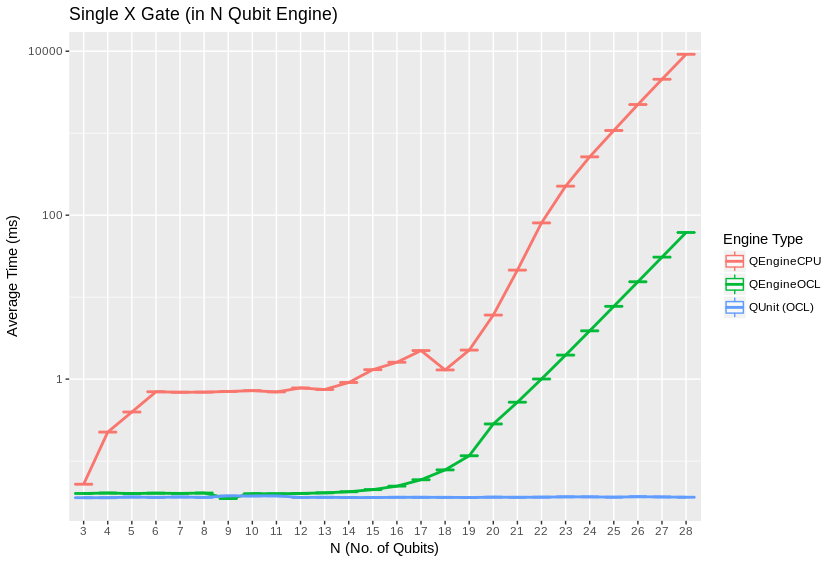
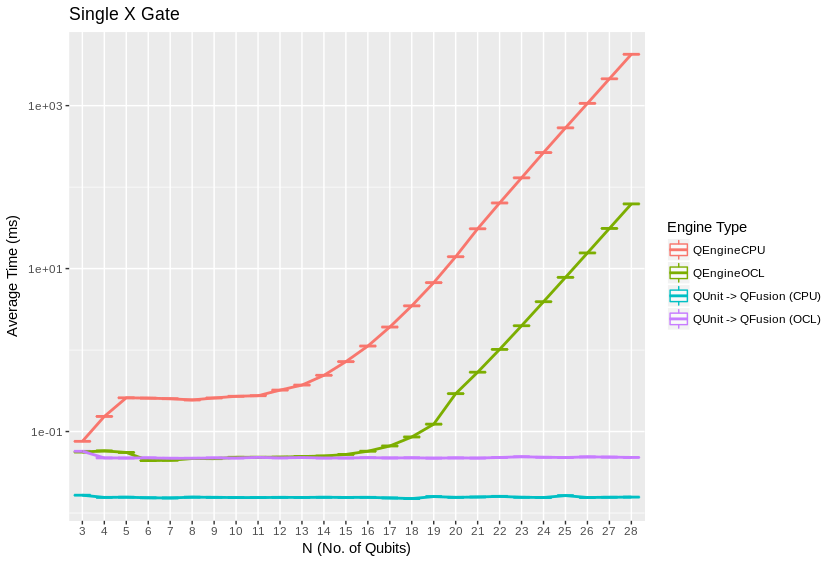
Release 3 candidate

diff --git a/docs/performance.rst b/docs/performance.rst
@@ -39,6 +39,14 @@ of projects.  As such, it is an ideal test-bed for establishing a set of
 benchmarks useful for comparing performance between various quantum
 simulators.
 
+Qrack provides a "QEngineCPU" and a "QEngineOCL" that represent non-OpenCL and 
+OpenCL base implementations, which could also be the most efficient types to 
+use directly in the limit of maximal entanglement. For general use cases, 
+the "QUnit" layer provides explicit Schmidt decomposition on top of another 
+engine type, (per [Pednault2017]_,) and "QFusion" provides a "gate fusion" 
+layer. A "QEngine" type is always the base layer, and QUnit and QFusion types 
+may be layered over these, and over each other.
+
 Future publications will compare the performance of Qrack against other
 publicly available simulators, as rigorous implementations can be implemented.
 
@@ -64,9 +72,7 @@ Disclaimers
 Method
 ******
 
-100 timed trials of each method were run for each qubit count between 3 and 28 qubits, on an AWS p3.8xlarge running Ubuntu Server 16.04LTS. The average and quartile boundary values of each set of 100 were recorded and graphed. Grover's search to invert a black box subroutine, or "oracle," was similarly implemented for trials between 3 and 16 qubits. Grover's algorithm was iterated an optimal number of times, vs. qubit count, to maximize probability on a half cycle of the algorithm's period, being :math:`floor\left[\frac{\pi}{4asin\left(1/\sqrt{2^N}\right)}\right]` iterations for :math:`N` qubits.
-
-The 16 qubit data point for Grover's search was not included for QEngineCPU, which is not hardware accelerated, because the monetary cost of exhaustive benchmarking is prohibitive, and QEngineCPU as currently implemented now primarily represents a legacy engine that would usually not be used for real application of Qrack. QEngineOCLMulti is experimental and generally performed worse or no better than QEngineOCL, despite running on multiple processors at once. It would also not yet be used for practical applications, so we omit its results, noting that it performs worse than the single device engine. (We will elaborate in the discussion section.)
+100 timed trials of each method were run for each qubit count between 3 and 28 qubits. CPU and GPU benchmarks were run on two respective systems that could represent realistic use cases for each engine type. An AWS p3.2xlarge running Ubuntu Server 18.04LTS was used for GPU benchmarks. An Alienware 17 R5 with an Intel(R) Core(TM) i7-8750H running Ubuntu 18.04LTS was used for CPU benchmarks. The average and quartile boundary values of each set of 100 were recorded and graphed. Grover's search to invert a black box subroutine, or "oracle," was similarly implemented for trials between 3 and 18 qubits. Grover's algorithm was iterated an optimal number of times, vs. qubit count, to maximize probability on a half cycle of the algorithm's period, being :math:`floor\left[\frac{\pi}{4asin\left(1/\sqrt{2^N}\right)}\right]` iterations for :math:`N` qubits.
 
 Heap profiling was carried out with Valgrind Massif. Heap sampling was limited but ultimately sufficient to show statistical confidence.
 
@@ -102,12 +108,12 @@ Up to a consistent deviation at low qubit counts, speed and RAM usage is well pr
 
 We might speculate that, at high qubit counts, the calculations operate almost entirely on heap, while system call and cache hit efficiency consistently alter the trend up until a persistent and detectable "bump" at around roughly 8 qubits for the software implementation, and another "bump" at around 17 qubits for the hardware-accelerated engine, on the P3 test machine. For "software" simulation, this would be roughly consistent with a 4MB cache. For the hardware acceleration, this implies a preferred faster RAM bank of about 2GB.
 
-QEngineOCLMulti, an OpenCL-based multiprocessor engine based on the algorithms developed in Intel's [QHiPSTER]_, fails to outperform the single processor QEngineOCL. We include it in the current release to help the open source community realize a practical multiprocessor implementation in the context of Qrack. A branch of the multiprocessor engine has already been implemented with dynamic load balancing between processors, but it produced no significant improvement. By deduction, likely, we guess that the explicit reliance on general "host" RAM banks for storing the substate vectors creates a bottleneck, when multiple processors need to communicate with general RAM at the same time on the same bus. To alleviate this, a new QEngineOCLMulti implementation might assume that each processor device has a large personal store of memory, at least 4 or 8 GB, in which case OpenCL could be told explicitly to allocate substate vectors in device memory and not use "host" RAM at all for storing the state vector.
+Qrack contains an experimental multiprocessor type, previously "QEngineOCLMulti" based on the algorithms developed in Intel's [QHiPSTER]_, currently replaced in favor of the simpler QUnitMulti type, which dispatches different separable subsystems to different processors. Current and previous generation multiprocessor types fail to outperform the single processor QEngineOCL. We include it in the current release to help the open source community realize a practical multiprocessor implementation in the context of Qrack.
 
 Further Work
 ************
 
-Qrack has been successfully run on multiple processors at once, and even on clusters, but not with practical performance for real application; a good next step is to redesign the multiprocessor engine to actually outperform the single device engine. Also, CPU "software" implementation parallelism relies on certain potentially expensive standard library functionality, like lambda expressions, and might still be micro-optimized. The API offers many optimized bitwise parallel operations over contiguous bit strings, but similar methods for discontiguous bit sets should be feasible with bit masks, if there is a reasonable demand for them. Further, there is still opportunity for better constant bitwise parallelism cost coverage and better explicit qubit subsystem separation in QUnit.
+Qrack has been successfully run on multiple processors at once, and even on clusters, but not with practical performance for real application; a good next step is to redesign the multiprocessor engine type(s) to actually outperform the single device engine. Also, CPU "software" implementation parallelism relies on certain potentially expensive standard library functionality, like lambda expressions parallel "futures," and might still be optimized. Further, there is still opportunity for better explicit qubit subsystem separation in QUnit.
 
 We will also develop and maintain systematic comparisons to published benchmarks of quantum computer simulation standard libraries, as they arise.
 

diff --git a/docs/index.rst b/docs/index.rst
@@ -24,7 +24,7 @@ Build Status
 Introduction
 ------------
 
-Qrack is a C++ quantum bit simulator, with the ability to support arbitrary numbers of entangled qubits - up to system limitations.  Suitable for embedding in other projects, the :cpp:class:`Qrack::QInterface` contains a full and performant collection of standard quantum gates, as well as variations suitable for register operations and arbitrary rotations.
+`Qrack <https://github.com/vm6502q/qrack>`_ is a C++ quantum bit simulator, with the ability to support arbitrary numbers of entangled qubits - up to system limitations.  Suitable for embedding in other projects, the :cpp:class:`Qrack::QInterface` contains a full and performant collection of standard quantum gates, as well as variations suitable for register operations and arbitrary rotations.
 
 As a demonstration of the :cpp:class:`Qrack::QInterface` implementation, a MOS-6502 microprocessor [MOS-6502]_ virtual machine has been modified with a set of new opcodes (:ref:`mos-6502q-opcodes`) supporting quantum operations.  The `vm6502q <https://github.com/vm6502q/vm6502q>`_ virtual machine exposes new integrated quantum opcodes such as Hadamard transforms and an X-indexed LDA, with the X register in superposition, across a page of memory.  An assembly example of a Grover's search with a simple oracle function is demonstrated in the `examples <https://github.com/vm6502q/examples>`_ repository.
 
